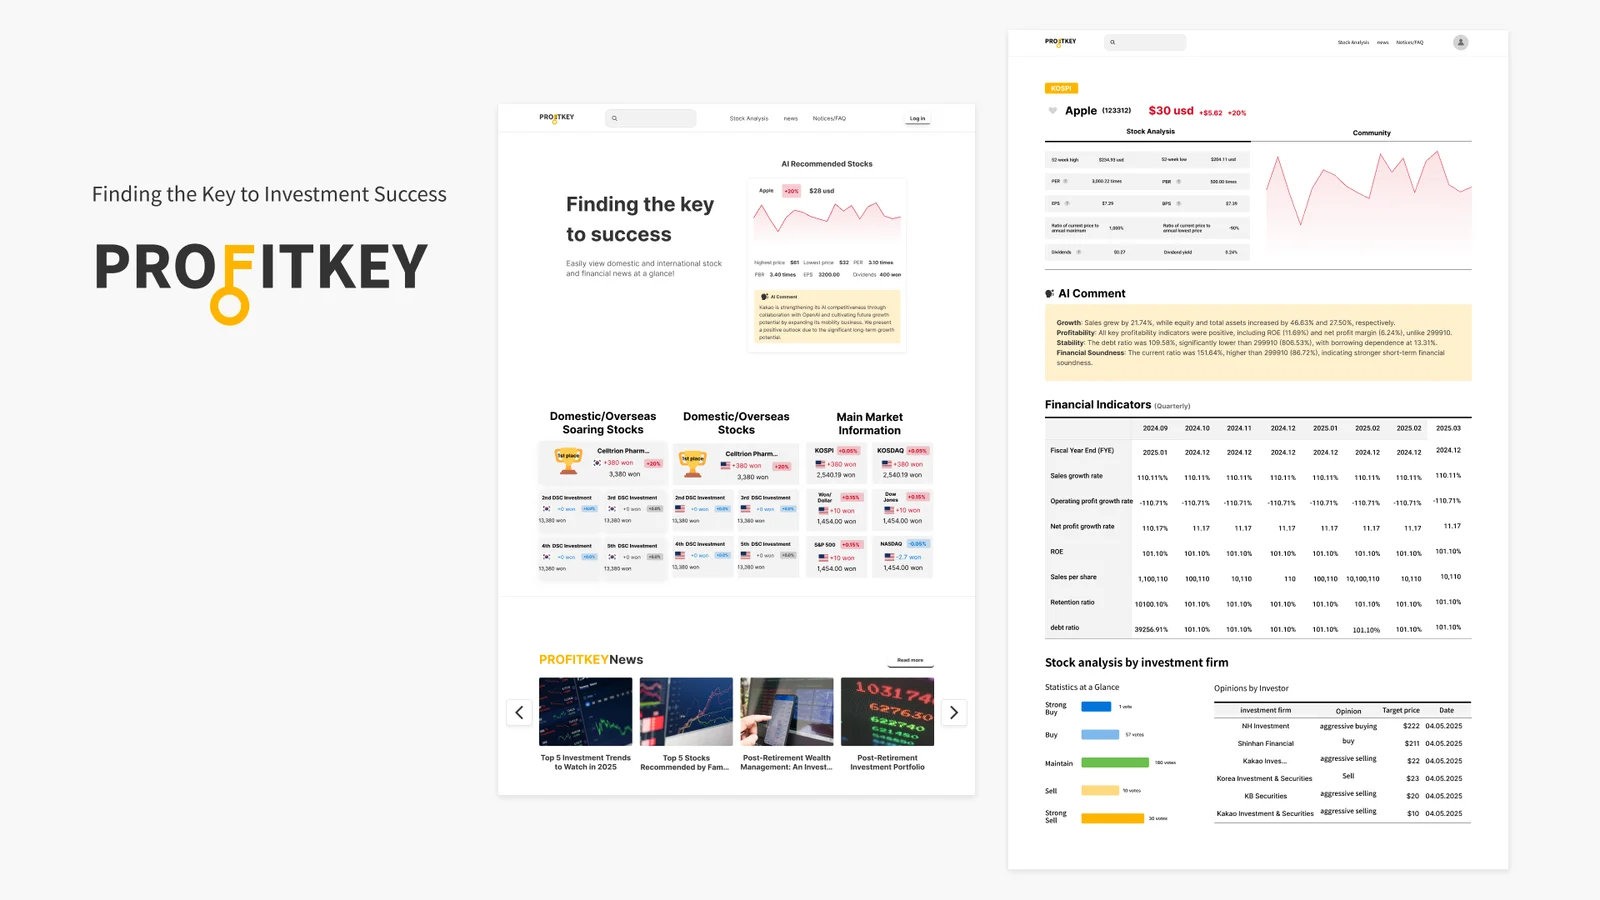
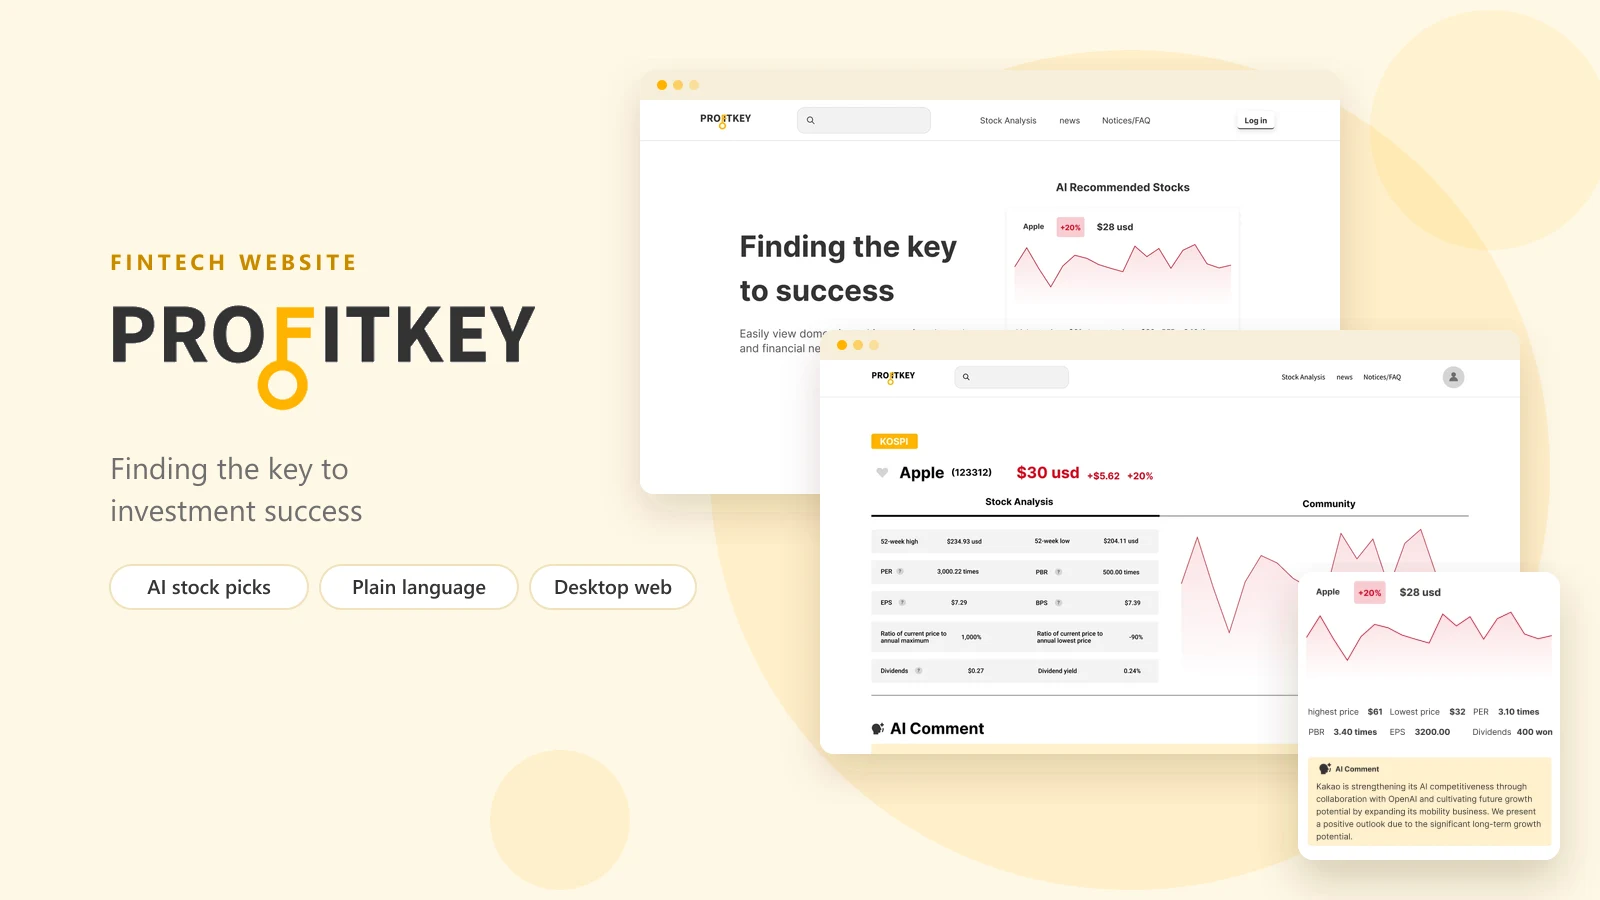
New PROFITKEY and Open Door Yoga covers in the Cookpad cover style; shared cover builder

diff --git a/src/data/projects.ts b/src/data/projects.ts
@@ -182,6 +182,7 @@ export const projects: Project[] = [
     team: 'Personal project',
     tools: ['Figma'],
     // cover: "Overview" frame (1:2139), the first Cookpad slide in the Portfolio Figma file
+    // cover: built by scripts/build-covers.mjs
     thumbnail: img('cookpad-cover', 'Cookpad UI/UX redesign cover: the recipe list and recipe detail pages in browser windows, and the mobile home screen in a phone.'),
     hero: img('cookpad-cover', 'Cookpad UI/UX redesign cover: the recipe list and recipe detail pages in browser windows, and the mobile home screen in a phone.'),
     theme: { accent: '#FF9934', ink: '#370000', surface: '#FFF1E3' },
@@ -722,8 +723,8 @@ export const projects: Project[] = [
     timeline: '2025.01 to 2025.03',
     team: '6 people: 5 front end/back end engineers and 1 designer',
     tools: ['Figma'],
-    thumbnail: img('profitkey-cover', 'PROFITKEY home page and stock analysis page with an AI comment panel.'),
-    hero: img('profitkey-cover', 'PROFITKEY home page and stock analysis page with an AI comment panel.'),
+    thumbnail: img('profitkey-cover', 'PROFITKEY cover: the home page and stock detail page in browser windows, and the AI Recommended Stocks card with its AI Comment.'),
+    hero: img('profitkey-cover', 'PROFITKEY cover: the home page and stock detail page in browser windows, and the AI Recommended Stocks card with its AI Comment.'),
     theme: { accent: '#FFB400', ink: '#333333', surface: '#FFF6DE' },
     tldr: [
       { label: 'Problem', text: 'Investment beginners don’t know where to start and find securities websites full of confusing terms.' },
@@ -1017,12 +1018,9 @@ export const projects: Project[] = [
     timeline: '2026.08 to 2026.09',
     team: 'Group project, 3 designers',
     tools: ['Figma', 'html.to.design'],
-    // cover: "Banner 1" (452:777) on the "Presentation - Elements" page of the Open Door Yoga Figma file
-    // (this project is not in the Portfolio file)
-    // card photo: the same image as the case study's hero
-    thumbnail: img('yoga-hero', 'Open Door Yoga logo beside a laptop on a wooden chair showing the redesigned home page with large "YOGA" lettering.', undefined, 1600, 900),
-    // hero: the first slide of the Open Door Yoga presentation (Figma Slides, slide 1:42)
-    hero: img('yoga-hero', 'Open Door Yoga logo beside a laptop on a wooden chair showing the redesigned home page with large "YOGA" lettering.', undefined, 1600, 900),
+    // cover: built by scripts/build-covers.mjs from the real redesigned pages
+    thumbnail: img('yoga-cover', 'Open Door Yoga redesign cover: the new Home and Passes & Pricing pages in browser windows, and the 12 Month Pass card.', undefined, 1600, 900),
+    hero: img('yoga-cover', 'Open Door Yoga redesign cover: the new Home and Passes & Pricing pages in browser windows, and the 12 Month Pass card.', undefined, 1600, 900),
     theme: { accent: '#6A4E77', ink: '#2E2E2E', surface: '#F0EDF1' },
     tldr: [
       { label: 'Problem', text: 'A heuristic review of the studio’s site found prices, schedules and key details hard to find and scan.' },
